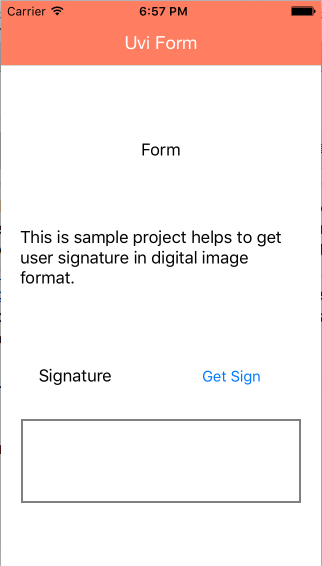
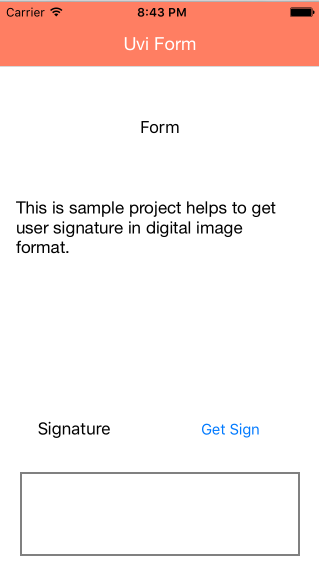
Capture the image with name and date.

diff --git a/Examples/Objective-C/signature/signature/CaptureSignatureViewController.m b/Examples/Objective-C/signature/signature/CaptureSignatureViewController.m
@@ -27,24 +27,75 @@
 }
 
 -(IBAction)captureSign:(id)sender {
-    [self startSampleProcess];
-    [self.navigationController popToRootViewControllerAnimated:YES];
+    //display an alert to capture the person's name
+    
+    UIAlertController * alertView=   [UIAlertController
+                                  alertControllerWithTitle:@"Saving signature with name"
+                                  message:@"Please enter your name"
+                                  preferredStyle:UIAlertControllerStyleAlert];
+    
+    [alertView addTextFieldWithConfigurationHandler:^(UITextField *textField) {
+        textField.placeholder = @"Name";
+
+    }];
+    
+    [alertView addTextFieldWithConfigurationHandler:^(UITextField *textField) {
+        textField.placeholder = @"Date(DD/MM/YYYY)";
+        
+    }];
+    
+    UIAlertAction* yesButton = [UIAlertAction
+                                actionWithTitle:@"Yes, please"
+                                style:UIAlertActionStyleDefault
+                                handler:^(UIAlertAction * action)
+                                {
+                                    //Handel your yes please button action here
+                                    UITextField *textField = alertView.textFields[0];
+                                    userName = textField.text;
+                                    UITextField *datetextField = alertView.textFields[1];
+                                    signedDate  = datetextField.text;
+                                    if(userName != nil && ![userName isEqualToString:@""] && signedDate != nil  && ![signedDate isEqualToString:@""])
+                                    {
+                                        [self startSampleProcess];
+                                        [self.navigationController popToRootViewControllerAnimated:YES];
+                                    }
+                                   
+                                }];
+    UIAlertAction* noButton = [UIAlertAction
+                               actionWithTitle:@"No, thanks"
+                               style:UIAlertActionStyleDefault
+                               handler:^(UIAlertAction * action)
+                               {
+                                   //Handel no, thanks button
+                                   [alertView dismissViewControllerAnimated:YES completion:nil];
+                               }];
+    
+    [alertView addAction:yesButton];
+    [alertView addAction:noButton];
+    [self presentViewController:alertView animated:YES completion:nil];
+
+
 }
 
-- (UIImage *) imageWithView:(UIView *)view
+- (UIImage *) imageWithView:(UIView *)view text:(NSString*)text
 {
     UIGraphicsBeginImageContextWithOptions(view.bounds.size, view.opaque, 0.0);
     [view.layer renderInContext:UIGraphicsGetCurrentContext()];
     
-    UIImage * img = UIGraphicsGetImageFromCurrentImageContext();
+    NSDictionary *attributes = @{NSFontAttributeName           : [UIFont systemFontOfSize:17],
+                                 NSStrokeWidthAttributeName    : @(0),
+                                 NSStrokeColorAttributeName    : [UIColor blackColor]};
+    [text drawAtPoint:CGPointMake(view.frame.origin.x+20 , view.frame.size.height-30) withAttributes:attributes];
     
+    UIImage * img = UIGraphicsGetImageFromCurrentImageContext();
     UIGraphicsEndImageContext();
     
     return img;
 }
 
 -(void)startSampleProcess {
-    [self.delegate processCompleted:[self imageWithView:self.signatureView]];
+    UIImage *captureImage = [self imageWithView:self.signatureView text:[NSString stringWithFormat:@"By: %@ - %@",userName,signedDate]];
+    [self.delegate processCompleted:captureImage];
 }
 
 

diff --git a/Examples/Objective-C/signature/signature/CaptureSignatureViewController.h b/Examples/Objective-C/signature/signature/CaptureSignatureViewController.h
@@ -19,6 +19,7 @@
 @interface CaptureSignatureViewController : UIViewController {
     // Delegate to respond back
     id <CaptureSignatureViewDelegate> _delegate;
+    NSString *userName, *signedDate;
 }
 
 @property (nonatomic,strong) id delegate;
@@ -28,5 +29,4 @@
 - (IBAction)captureSign:(id)sender;
 
 @property (strong, nonatomic) IBOutlet UIButton *captureButton;
-
 @end

diff --git a/README.md b/README.md
@@ -1,6 +1,6 @@
 # iOS Signature Capture 
 
-iOS Signature Capture helps to capture the user signature and it supports both Objective-C and Swift languages.
+iOS Signature Capture helps to capture the user signature with name and date and it supports both Objective-C and Swift languages.
 
 
 ##Features :
@@ -29,17 +29,23 @@ iOS Signature Capture helps to capture the user signature and it supports both O
 
 [screen_1]: https://github.com/vigneshuvi/iOS-Signature-Capture/blob/master/Screenshots/screen_1.png
 
-######Capture the signature
+######Draw the signature
 
 ![alt text][screen_2]
 
 [screen_2]: https://github.com/vigneshuvi/iOS-Signature-Capture/blob/master/Screenshots/screen_2.png
 
-######After capture teh signature
+######Prombt for the name and date
 
 ![alt text][screen_3]
 
 [screen_3]: https://github.com/vigneshuvi/iOS-Signature-Capture/blob/master/Screenshots/screen_3.png
+
+######After capture teh signature
+
+![alt text][screen_4]
+
+[screen_4]: https://github.com/vigneshuvi/iOS-Signature-Capture/blob/master/Screenshots/screen_4.png
 
 
 
